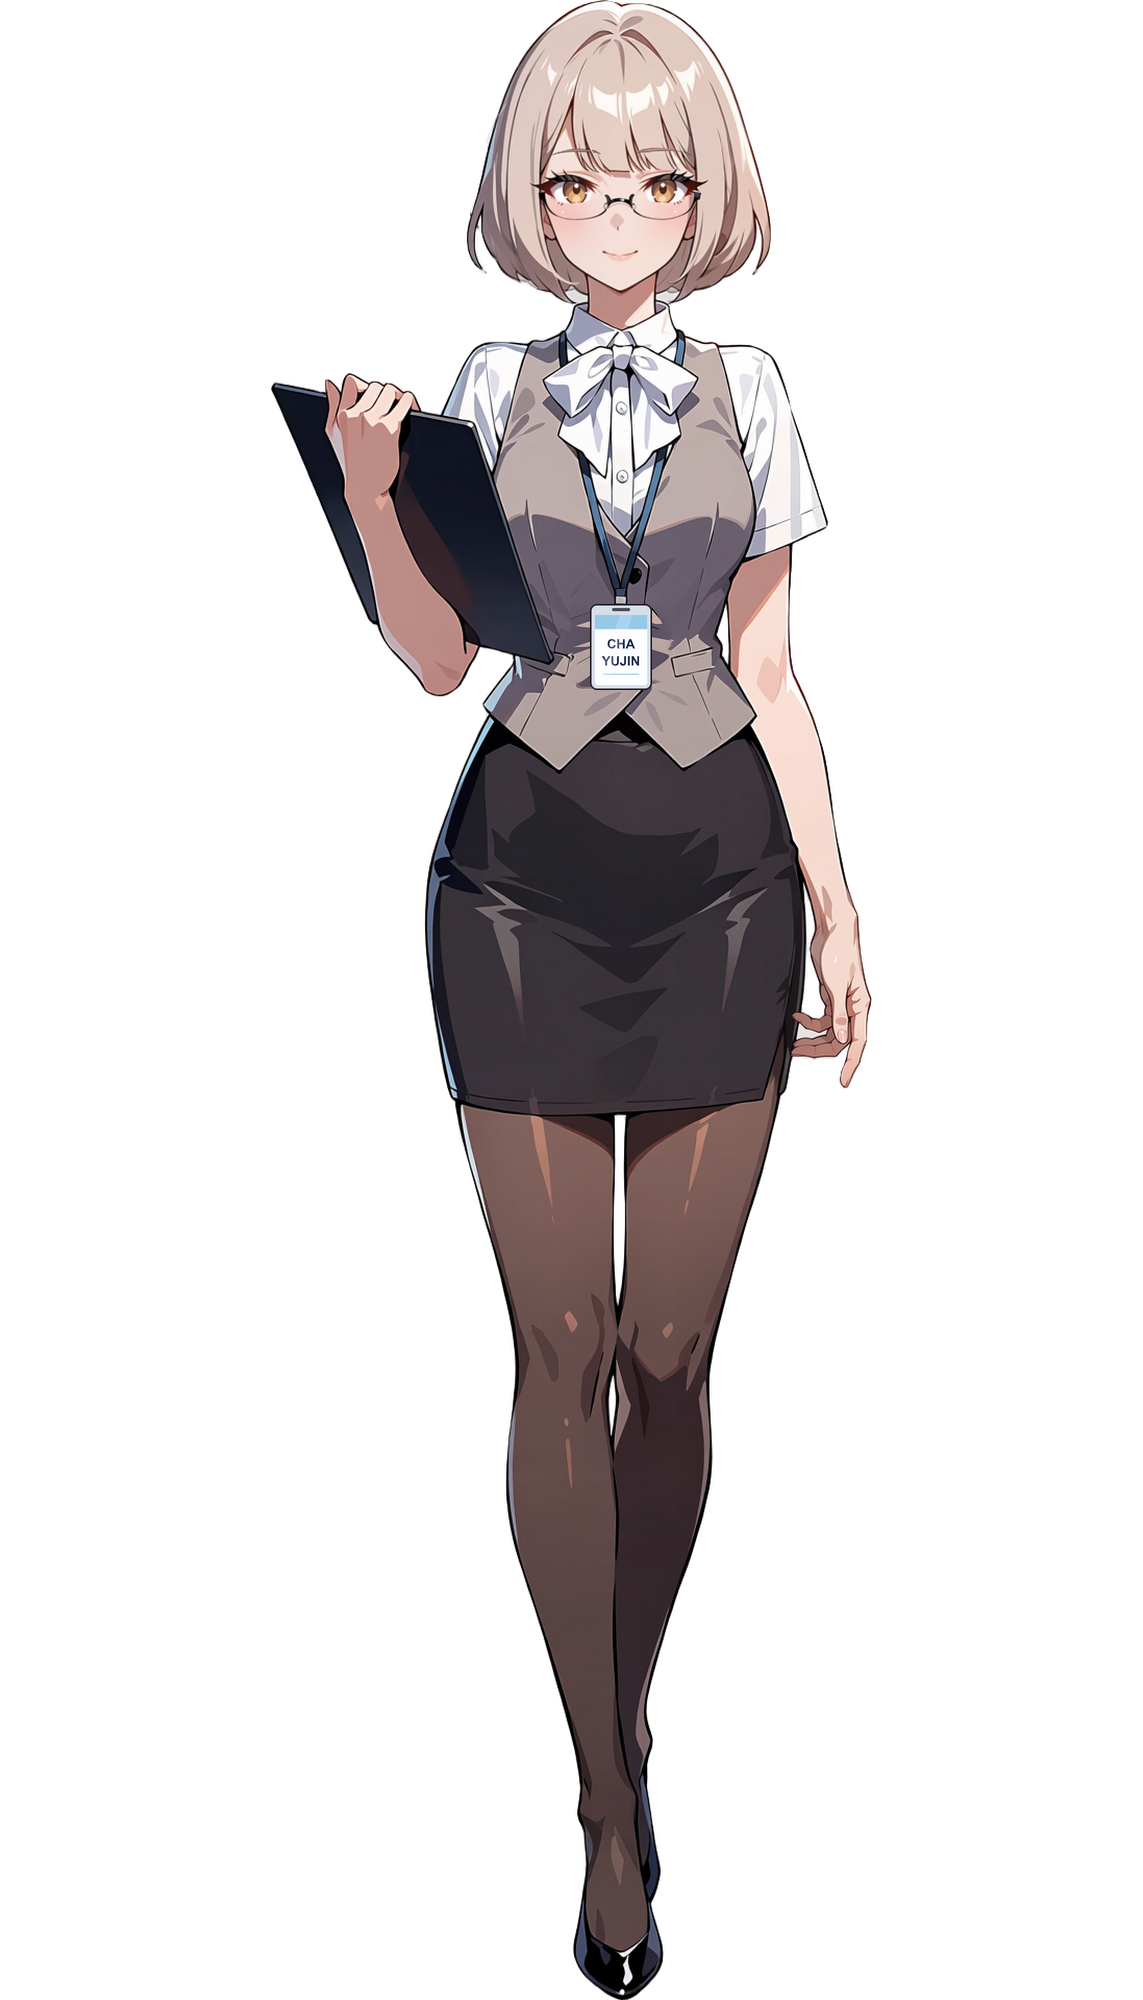
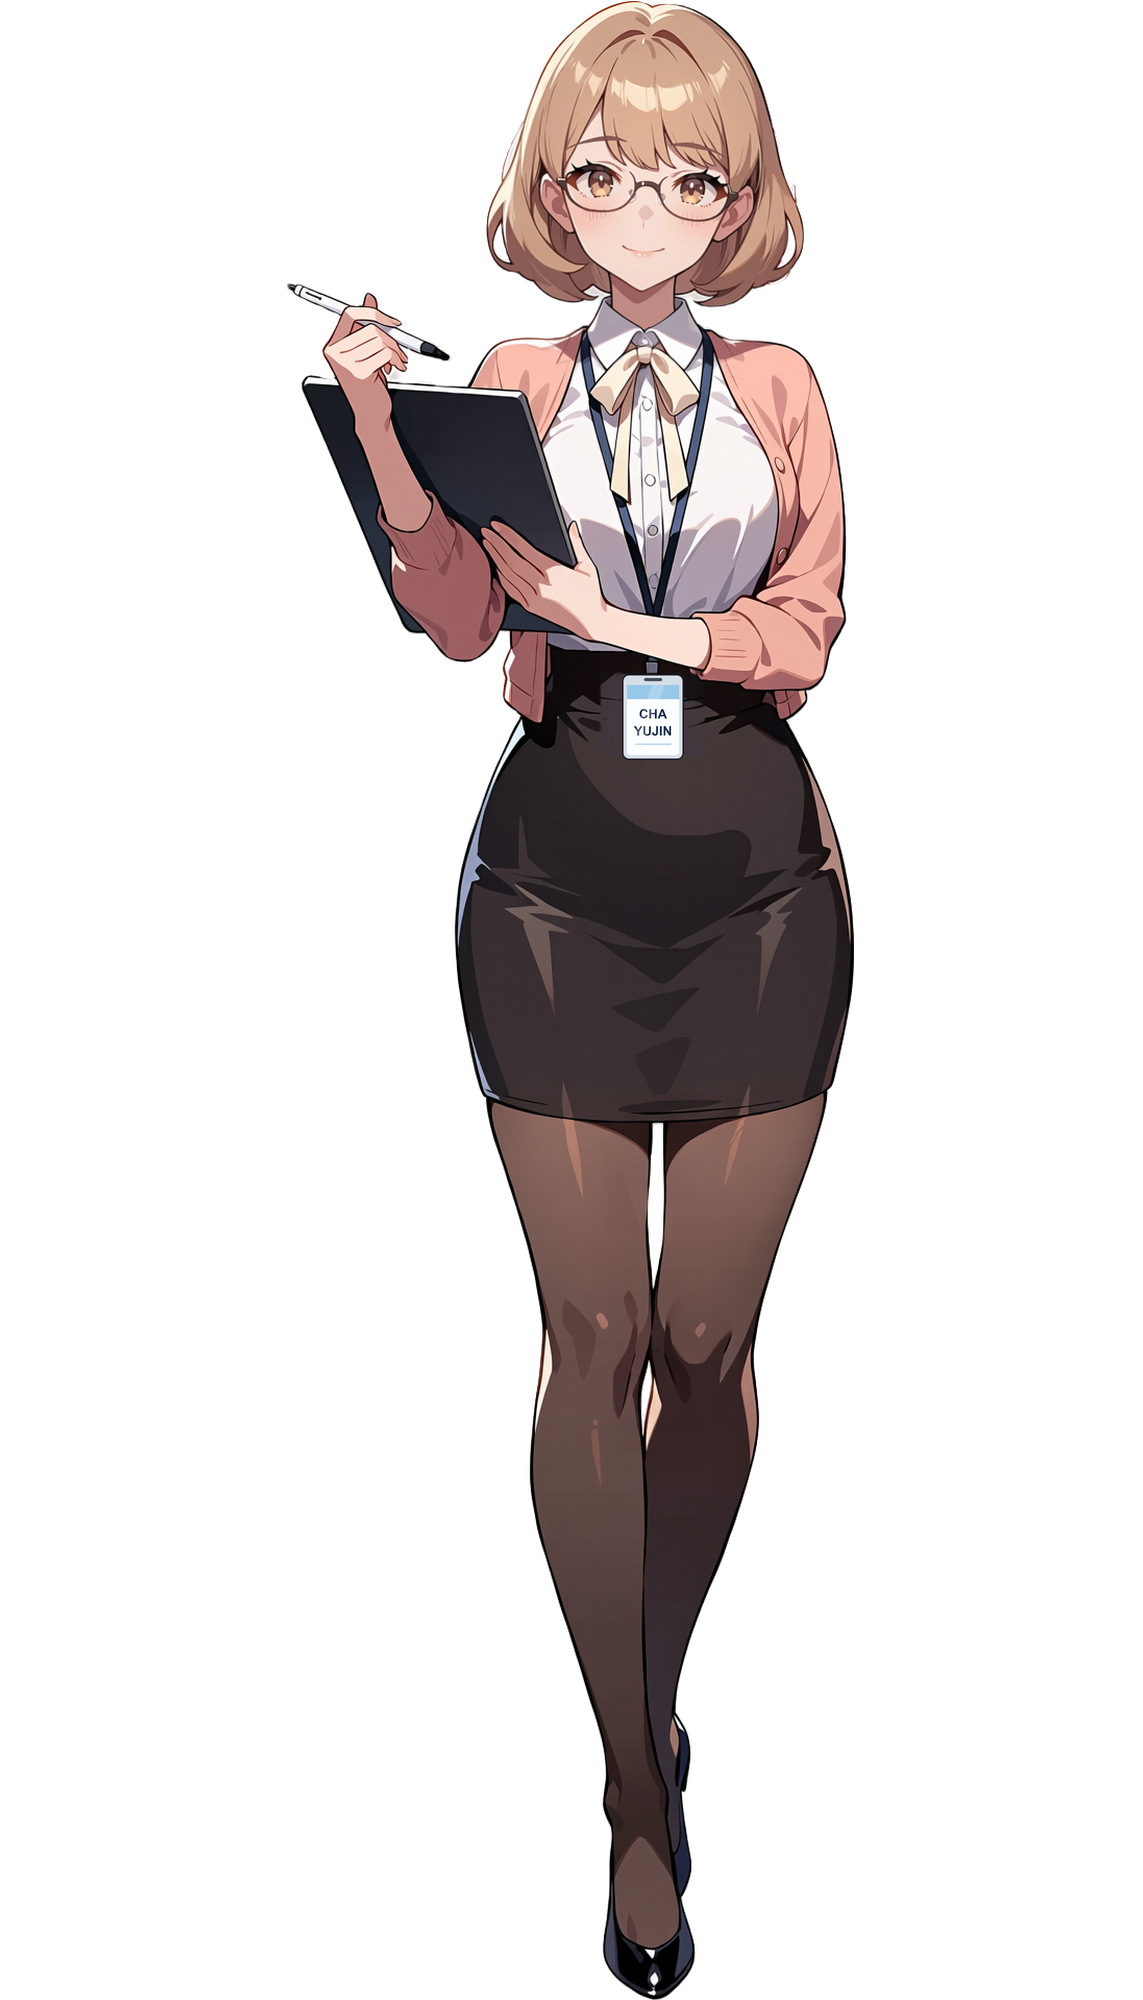
Change Cha Yujin's master to a designer look
Her character sheet makes her a brand designer, but the master showed
a secretary in a grey vest with a clipboard. The new master keeps the
beige bob and glasses, adds the dusty pink cardigan and neck ribbon,
and has her holding a drawing tablet and stylus. Same uniform ID card
as the others; both sizes included. APPEARANCE_CURRENT and the masters
README describe the new outfit.

Changed region(s): [[0.245, 0.0, 0.7655, 1.0]]

diff --git a/CharacterArt/APPEARANCE_CURRENT.md b/CharacterArt/APPEARANCE_CURRENT.md
@@ -21,7 +21,7 @@
 | [강리아](character_art_02_RIA.md) | 갸름한 얼굴, 아주 긴 웨이브 금발 높은 포니테일, **파란 슈슈**, 일자 앞머리, **파란 눈**, 밝게 웃는 입 | 비치지 않는 흰 면 칼라 블라우스·접어 올린 소매, 검정 하이웨이스트 펜슬 스커트, 비치는 검정 팬티스타킹, 검정 에나멜 펌프스, 남색 사원증 |
 | [백지현](character_art_03_JIHYUN.md) | 아주 긴 크림슨 웨이브, 옆 가르마 앞머리, 붉은 갈색 눈과 자신감 있는 눈매, 매력점 없음 | 버건디 셔츠, 차콜 테일러드 재킷, 차콜·검정 하이웨이스트 **펜슬 스커트**와 검정 벨트·작은 직사각 버클, 비치는 검정 팬티스타킹, 검정 스틸레토, 남색 사원증 |
 | [한서윤](character_art_05_SEOYUN.md) | 갸름한 계란형 얼굴, 짙은 플럼·검보라 긴 웨이브, 반쯤 감은 회청·라벤더 눈, **왼쪽 눈 아래 매력점** | 연라벤더 칼라 블라우스·접은 소매·윗단추 하나 풂, 남색 하이웨이스트 펜슬 스커트와 검정 벨트, **가터벨트+검정 레이스 밴드 니삭스**, 검정 펌프스, 남색 사원증 |
-| [차유진](character_art_04_YUJIN.md) | 갸름한 성인 얼굴, **베이지 금발 단발 생머리**, 옆으로 넘긴 앞머리, **얇은 검정 사각 안경**, 호박색 눈 | 흰 블라우스와 칼라 리본, 연회색 조끼, 검정 하이웨이스트 펜슬 스커트, 비치는 검정 팬티스타킹, 검정 펌프스, 검정 클립보드, 남색 사원증 |
+| [차유진](character_art_04_YUJIN.md) | 갸름한 성인 얼굴, **베이지 금발 단발**(끝이 안으로 말림), 옆으로 넘긴 앞머리, **얇은 검정 사각 안경**, 호박색 눈 | 브랜드디자이너. 흰 칼라 블라우스와 크림색 목 리본, **더스티 핑크 긴소매 카디건**(앞 열림), 검정 하이웨이스트 펜슬 스커트, 비치는 검정 팬티스타킹, 검정 펌프스, **드로잉 태블릿과 스타일러스**, 남색 사원증 |
 
 네 명의 눈·턱·가르마·체형을 한 얼굴로 통일하지 않는다. 색은 생성 결과의 관찰값이며 임의 HEX 값으로 대체하지 않는다.
 
@@ -30,7 +30,7 @@
 - 네 명 모두 스타킹을 신는다. 백지현은 바지 대신 펜슬 스커트.
 - 강리아: 큰 남색 리본·녹청색 눈 → 파란 슈슈·파란 눈(기존 강리아 마스터 그림 기준).
 - 한서윤: 매력점을 넣고 가터벨트·레이스 니삭스로 바꿨다.
-- 차유진: 따뜻한 갈색 보브·분홍 카디건·목 리본 → 베이지 금발 단발·안경·조끼 비서룩.
+- 차유진: 따뜻한 갈색 보브 → 베이지 금발 단발·안경. 분홍 카디건·목 리본은 유지하고, 디자이너 직업에 맞춰 드로잉 태블릿·스타일러스를 든다(2026-11-14, 비서룩 안을 대체).
 - 사원증 카드에 영어 이름(KANG RIA / BAEK JIHYUN / HAN SEOYUN / CHA YUJIN)을 쓴다. 사진·로고는 넣지 않는다.
 
 ## 공통 유지·미확인 범위

diff --git a/CharacterArt/candidates/heroine-masters-v001/README.md b/CharacterArt/candidates/heroine-masters-v001/README.md
@@ -26,7 +26,7 @@
 - 네 명 모두 스타킹. 백지현은 바지 대신 펜슬 스커트.
 - 강리아: 큰 남색 리본·녹청색 눈 대신 파란 슈슈·파란 눈(기존 강리아 마스터 그림 기준).
 - 한서윤: 매력점 넣음, 가터벨트+레이스 스타킹.
-- 차유진: 베이지 금발 단발·안경·비서룩(조끼, 리본 블라우스). 분홍 카디건·목 리본 디자인을 대체.
+- 차유진: 베이지 금발 단발·안경, 분홍 카디건·목 리본 블라우스, 드로잉 태블릿·스타일러스를 든 디자이너 차림(2026-11-14, 같은 seed 1103의 비서룩 안을 대체).
 - 사원증에 영어 이름 표기.
 
 ## 남은 일
